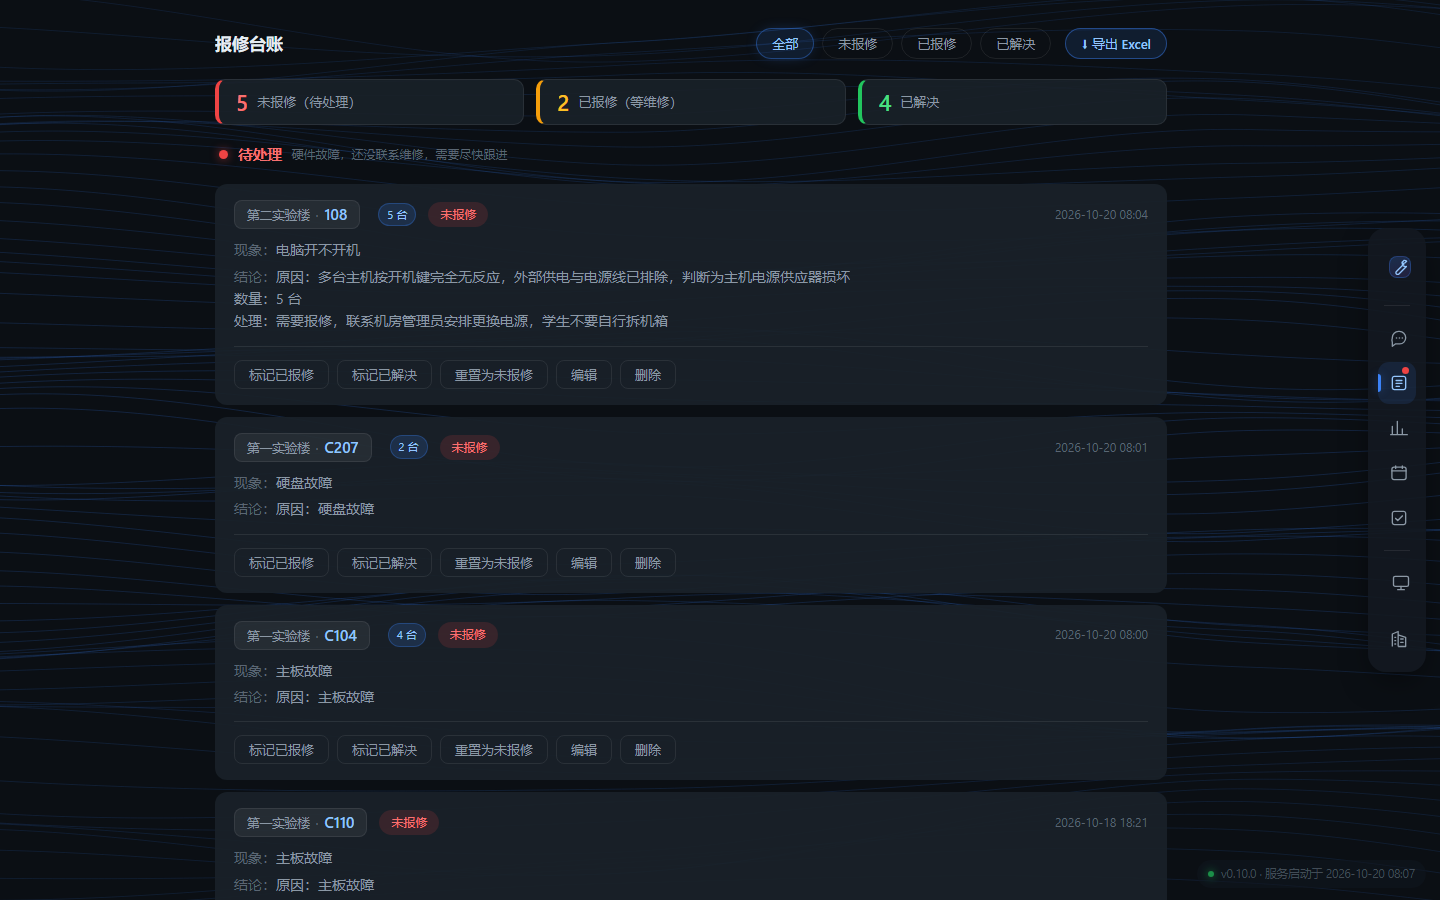
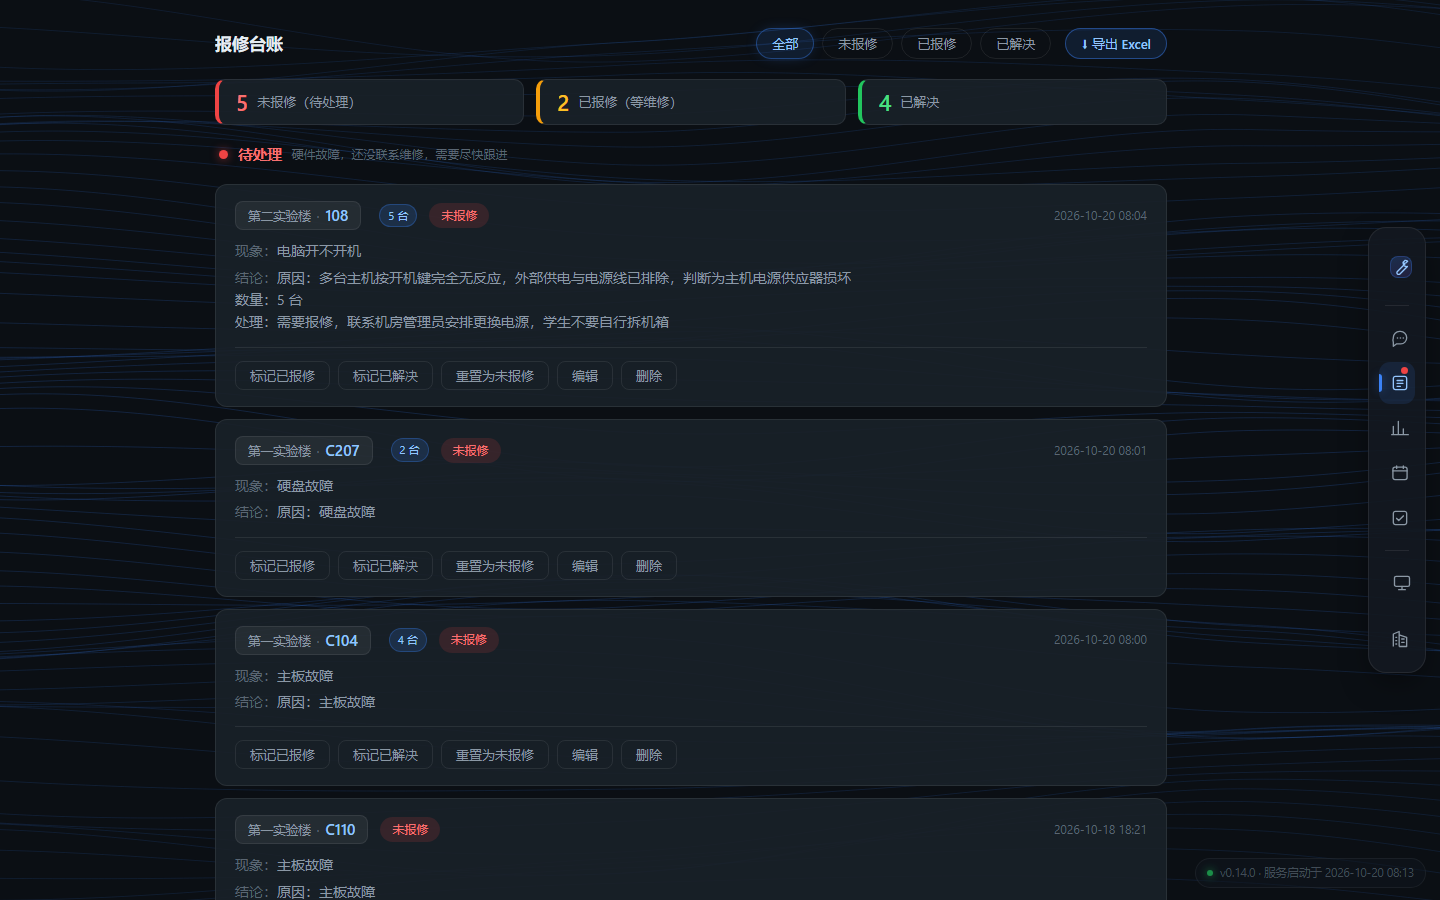
fix: 修复上次批量删 backdrop-filter 时损坏的 17 处 CSS
弹窗跑到左边、十几处卡片丢了边框，根因是上一版改性能时用的正则：

    r'[ \t]*backdrop-filter:[^;]*;\n'

它也会匹配到 "-webkit-backdrop-filter"（从 'backdrop' 开始算），
于是把该行的 "-webkit-" 前缀留了下来，同时吃掉了行尾换行，
和下一行首尾相连：

    -webkit-  display: flex;          ← 弹窗靠它居中
    -webkit-  border: 1px solid …     ← 十几张卡片的边框

浏览器遇到这种畸形声明是静默忽略的 —— 不报错、页面也不崩，
只是样式悄悄失效，所以上一版截图没看出来，直到弹窗歪了才发现。

修复：把 "-webkit-" 后跟空格的残骸还原成原本的声明。
正常的 -webkit- 属性（-webkit-line-clamp、-webkit-box-orient 等）是紧贴的，
不受影响，已逐项核对。

顺带加了 tests/test_css_sanity.py 兜底，6 条检查：
  · 花括号 / 圆括号 / 注释配对
  · 不允许出现 "-webkit-" 后跟空格（就是这次的残骸）
  · 不允许空声明
  · 不允许再出现 backdrop-filter（它和动画背景叠加是掉帧主因，别加回来）

教训：我在前面明确说过"以后不做全局批量替换"，结果又用正则改了 35 处，
一改就误伤。这类检查补在测试里，比我记着不做更靠谱。

验证：338 个测试通过；教室详情弹窗已居中，台账卡片边框恢复。

diff --git a/web/static/style.css b/web/static/style.css
@@ -149,7 +149,7 @@ body {
   padding: 5px 11px;
   border-radius: 100px;
   background: rgba(17, 23, 31, 0.82);
-  -webkit-  border: 1px solid var(--border);
+  border: 1px solid var(--border);
   font-size: var(--fs-xs);
   color: var(--text-faint);
   font-variant-numeric: tabular-nums;
@@ -370,7 +370,7 @@ button:disabled { cursor: not-allowed; }
 .entry-card {
   position: relative;
   background: var(--surface-1);
-  -webkit-  border: 1px solid var(--border);
+  border: 1px solid var(--border);
   border-radius: var(--radius-lg);
   padding: 28px 20px;
   cursor: pointer;
@@ -462,7 +462,7 @@ button:disabled { cursor: not-allowed; }
   gap: 28px;
   padding: 16px 34px;
   background: rgba(255, 255, 255, 0.05);
-  -webkit-  border: 1px solid var(--border);
+  border: 1px solid var(--border);
   border-radius: 100px;
   animation: cardIn 0.6s var(--ease) 0.36s both;
 }
@@ -556,7 +556,7 @@ button:disabled { cursor: not-allowed; }
 
   border-radius: 18px;
   background: rgba(19, 25, 33, 0.90);
-  -webkit-  border: 1px solid var(--border);
+  border: 1px solid var(--border);
   box-shadow: var(--shadow-lg);
 
   /* 高度随内容，超出视口时才滚动 */
@@ -882,7 +882,7 @@ main { flex: 1; overflow: hidden; position: relative; }
 }
 .msg.bot .bubble {
   background: var(--panel);
-  -webkit-  border: 1px solid var(--border);
+  border: 1px solid var(--border);
 }
 .msg.user .bubble {
   background: linear-gradient(135deg, #3b82f6, #2563eb);
@@ -945,7 +945,7 @@ main { flex: 1; overflow: hidden; position: relative; }
 .composer input {
   flex: 1;
   background: var(--panel);
-  -webkit-  border: 1px solid var(--border);
+  border: 1px solid var(--border);
   border-radius: 12px;
   padding: 12px 16px;
   color: var(--text);
@@ -1122,7 +1122,7 @@ main { flex: 1; overflow: hidden; position: relative; }
 
 .record {
   background: var(--panel);
-  -webkit-  border: 1px solid var(--border);
+  border: 1px solid var(--border);
   border-radius: var(--radius);
   padding: 16px 19px;
   transition: all 0.26s var(--ease);
@@ -1276,7 +1276,7 @@ main { flex: 1; overflow: hidden; position: relative; }
 .kpi {
   position: relative;
   background: var(--surface-1);
-  -webkit-  border: 1px solid var(--border);
+  border: 1px solid var(--border);
   border-radius: var(--radius-md);
   padding: 20px 18px;
   overflow: hidden;
@@ -1326,7 +1326,7 @@ main { flex: 1; overflow: hidden; position: relative; }
 
 .chart-card {
   background: var(--panel);
-  -webkit-  border: 1px solid var(--border);
+  border: 1px solid var(--border);
   border-radius: var(--radius);
   padding: 18px;
   animation: msgIn 0.45s var(--ease) both;
@@ -1460,7 +1460,7 @@ main { flex: 1; overflow: hidden; position: relative; }
   padding: 16px 18px;
   margin-bottom: 18px;
   background: var(--panel);
-  -webkit-  border: 1px solid var(--border);
+  border: 1px solid var(--border);
   border-radius: var(--radius);
 }
 
@@ -1503,7 +1503,7 @@ main { flex: 1; overflow: hidden; position: relative; }
 }
 .sched-col {
   background: var(--panel);
-  -webkit-  border: 1px solid var(--border);
+  border: 1px solid var(--border);
   border-radius: var(--radius);
   padding: 16px;
   min-height: 180px;
@@ -2010,7 +2010,7 @@ main { flex: 1; overflow: hidden; position: relative; }
   left: 50%;
   transform: translateX(-50%) translateY(10px);
   background: rgba(26, 33, 41, 0.95);
-  -webkit-  border: 1px solid rgba(59,130,246,0.35);
+  border: 1px solid rgba(59,130,246,0.35);
   color: #93c5fd;
   font-size: 13px;
   font-family: inherit;
@@ -2055,7 +2055,7 @@ main { flex: 1; overflow: hidden; position: relative; }
   inset: 0;
   z-index: 200;
   background: rgba(0, 0, 0, 0.62);
-  -webkit-  display: flex;
+  display: flex;
   align-items: center;
   justify-content: center;
   padding: 24px;
@@ -2070,7 +2070,7 @@ main { flex: 1; overflow: hidden; position: relative; }
   display: flex;
   flex-direction: column;
   background: rgba(20, 26, 33, 0.98);
-  -webkit-  border: 1px solid var(--border-strong);
+  border: 1px solid var(--border-strong);
   border-radius: 16px;
   box-shadow: 0 28px 70px -22px rgba(0, 0, 0, 0.95);
   animation: modalIn 0.32s var(--ease) both;
@@ -2890,7 +2890,7 @@ select option:hover {
 /* -------- 通用卡片 -------- */
 .ov-card {
   background: var(--panel);
-  -webkit-  border: 1px solid var(--border);
+  border: 1px solid var(--border);
   border-radius: var(--radius);
   padding: 18px;
   margin-bottom: 16px;
@@ -3262,7 +3262,7 @@ select option:hover {
 /* -------- 课表 -------- */
 .sched-card {
   background: var(--panel);
-  -webkit-  border: 1px solid var(--border);
+  border: 1px solid var(--border);
   border-radius: var(--radius);
   overflow: hidden;
 }
@@ -3387,7 +3387,7 @@ select option:hover {
 .sdetail {
   margin-top: 16px;
   background: var(--panel);
-  -webkit-  border: 1px solid var(--border);
+  border: 1px solid var(--border);
   border-radius: var(--radius);
   padding: 18px;
 }

diff --git a/tests/test_css_sanity.py b/tests/test_css_sanity.py
@@ -1,0 +1,66 @@
+"""
+样式表的基本完整性检查
+
+为什么需要：
+  改 CSS 时如果用全局正则批量替换（比如删掉所有 backdrop-filter），
+  很容易误伤相邻的声明 —— 实际就发生过一次：
+  正则把 "-webkit-backdrop-filter" 也当成了 "backdrop-filter"，
+  删掉它时把下一行的关键字前缀留了下来：
+
+      -webkit-  display: flex;      ← display 失效，弹窗不再居中
+      -webkit-  border: 1px solid …  ← 边框消失
+
+  这类损坏浏览器不会报错，页面也不会崩，只是某个样式**悄悄失效了** ——
+  最难发现的那种。所以用测试兜住几条最基本的线索。
+"""
+
+import os
+import re
+
+import pytest
+
+CSS_PATH = os.path.join(
+    os.path.dirname(os.path.dirname(os.path.abspath(__file__))),
+    'web', 'static', 'style.css')
+
+
+@pytest.fixture(scope='module')
+def css():
+    with open(CSS_PATH, encoding='utf-8') as f:
+        return f.read()
+
+
+class TestCssSanity:
+
+    def test_braces_balanced(self, css):
+        assert css.count('{') == css.count('}'), '花括号不配对'
+
+    def test_parens_balanced(self, css):
+        assert css.count('(') == css.count(')'), '圆括号不配对'
+
+    def test_no_orphan_webkit_prefix(self, css):
+        """
+        不允许出现 "-webkit-" 后面跟空格的写法
+
+        正常的 -webkit- 属性是紧贴的（-webkit-line-clamp、-webkit-box-orient），
+        只有被误删前缀时才会剩下 "-webkit-  border: …" 这种残骸。
+        """
+        bad = re.findall(r'^\s*-webkit-\s+\S.*$', css, re.M)
+        assert not bad, '发现被截断的 -webkit- 行：%r' % bad[:3]
+
+    def test_no_empty_declaration(self, css):
+        """不允许出现 ": ;" 这种空声明"""
+        bad = re.findall(r':\s*;', css)
+        assert not bad, '发现空声明 %d 处' % len(bad)
+
+    def test_no_unclosed_comment(self, css):
+        assert css.count('/*') == css.count('*/'), '注释未闭合'
+
+    def test_no_duplicate_backdrop_filter(self, css):
+        """
+        背景已改成纯色，不应再出现 backdrop-filter
+
+        它和动画背景叠在一起会让整屏区域每帧重新模糊，
+        曾经是掉帧的主因，别又加回来。
+        """
+        assert 'backdrop-filter' not in css
